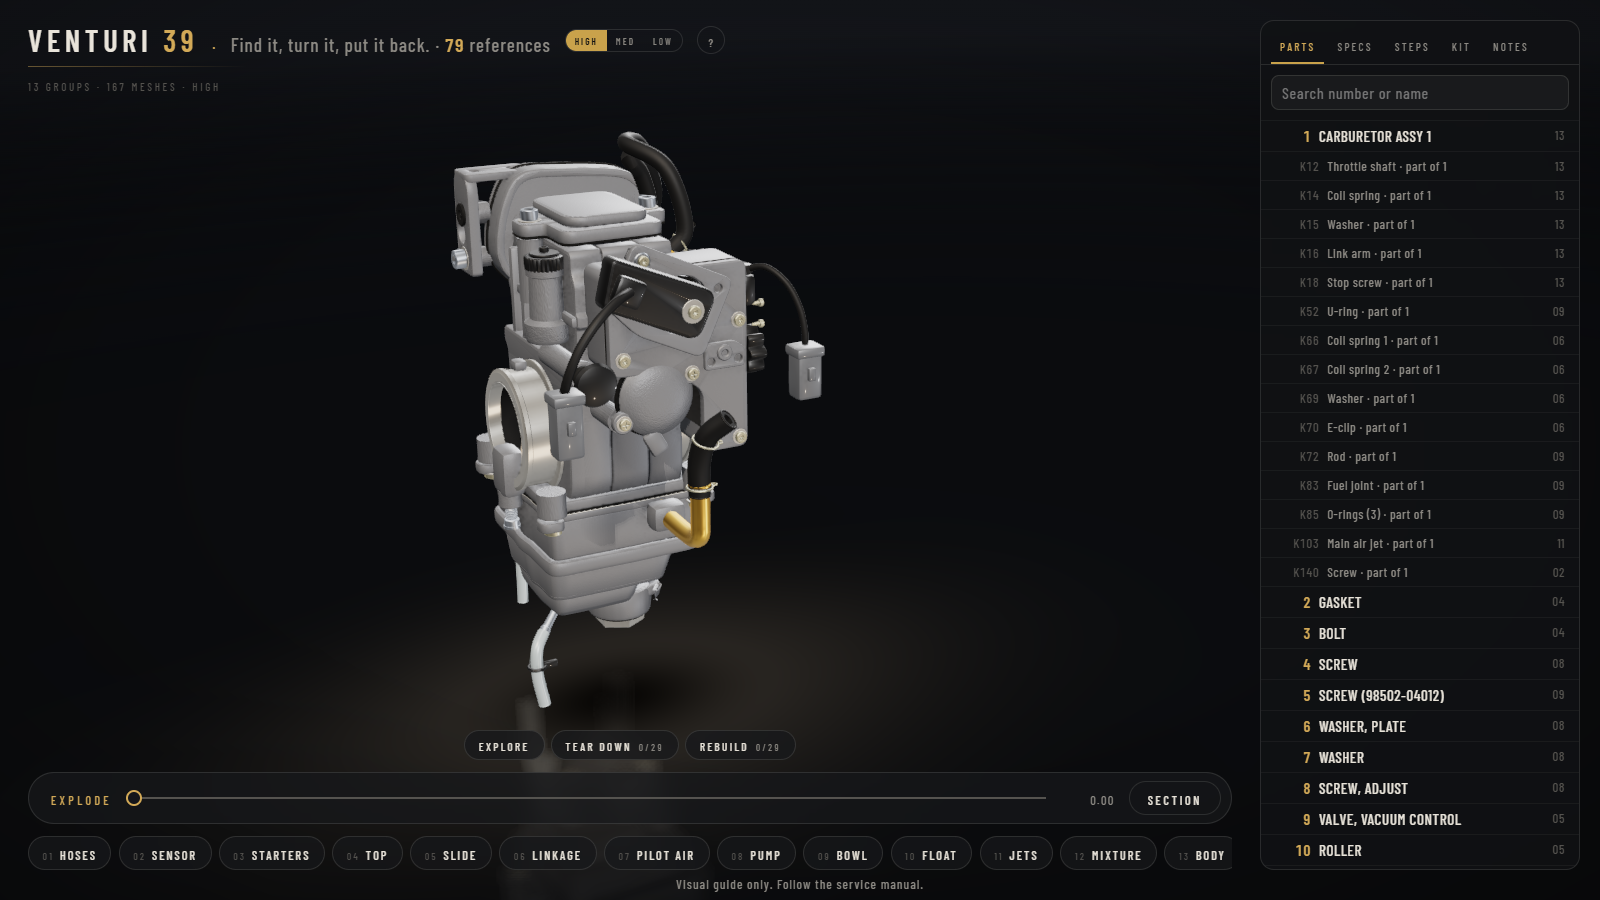
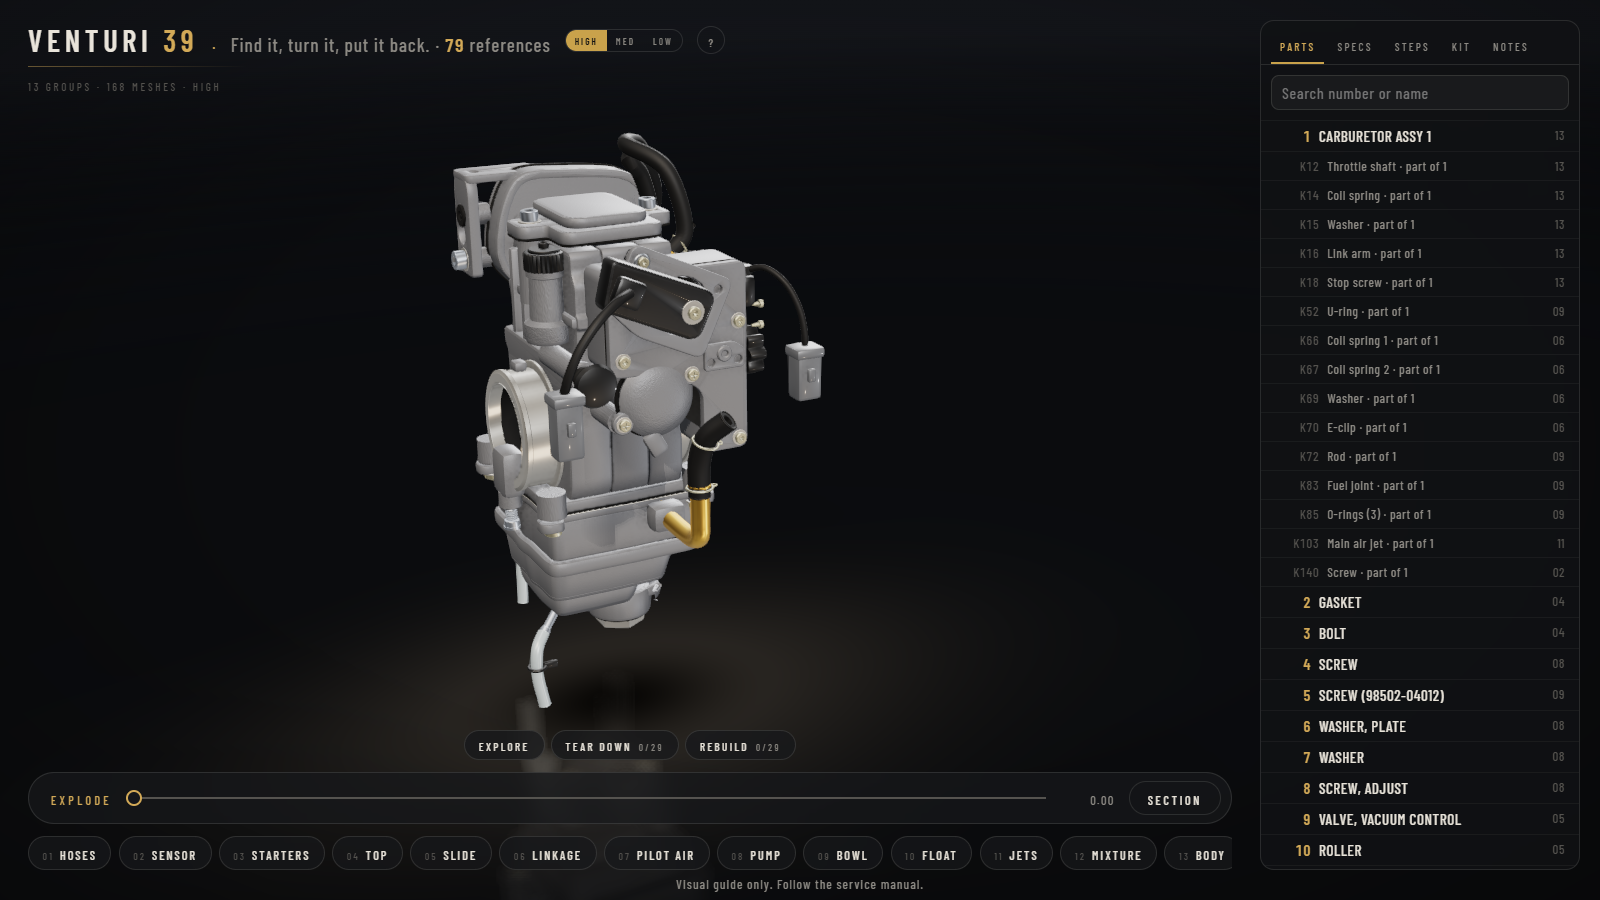
STATUS.md for run 16; hero retaken

diff --git a/STATUS.md b/STATUS.md
@@ -1,10 +1,10 @@
-1. Run 15 (2026-11-16) · v2.2. Items 1-12, one commit each (item 7's commit also carries K92's spring and the ring helper that item 6 uses; item 6 carries gasket 61's holes' sensor.js edit in item 7). Item 1 only appends corrections 31-33 to the git-ignored VENTURI_JOB.md.
-2. solo.txt: 109 of 111 parts pass all 3 questions (q1 111, q2 109, q3 111); 57 and 58 (vent hoses) stay N on q2: their open ends are too small to read at that scale. All 6 contact sheets looked at once, plus 4 extra sheets of changed parts (11 sheets in all, limit 12).
-3. account.txt (scripts/account.mjs): 111 parts, 0 failures. It first found 7: K12, K14, K15, K16, K18 (now in tear-down step 10) and K140 (step 6) had no step, and fuel hose 73 sat 28 mm from the bowl (now fits K83).
-4. Checklist "yes" per view (air-box, sensor, engine, cable, top, underside): 8, 10, 9, 9, 8, 10 = 54 of 72 (17 partial, 1 no). Line 2 now yes (dark share 0.82 against the photo's 0.91); line 31 now partial (the bowl screws moved up to 4 mm ears at the joint).
-5. Triangles 307,238 in 167 meshes (budget 335k): body and bowl big corners back to 16 steps by turn and radius. The bore shows 0 open gaps at explode 0 (slide seated fully down, cavity cut to the bore floor). 0 console errors.
-6. Items 2-7: bowl ears 4 mm thick, 4 M4 x 12 screws up into 4 tapped holes 8 mm deep (no posts); every thread real pitch, at most 10 rings, at most 0.4 mm deep; 6 heads show their drive; 7 jets bored through (pilot jet 18 mm with a slot and 4 cross holes); slide 9 grey, hollow back; 6 small parts and the 5 N grades rebuilt.
-7. Items 9-10: tray is 1 grid of 5 rows facing the camera, parts at 100% brightness; at 800 x 500 smallest part 12.7 px, tray at most 17.8% of the height, carburetor with the current part at least 50% of the usable height (its height, not its area). Fixed a bug: the tray tweens were never stepped, so a part reached the tray only on entering a mode. At 390 px the part name is in the step panel, 0 px covered; 0 px at 1902x935 and 1189x940 in all 58 steps.
-8. Looks this run: ref/carb_main..jpg once, 11 contact sheets, the 6 side-by-side images (cmp_1 before and after the slide change), 3 shots at 800 px (body from below, 7 jets, TEAR DOWN 23 with the tray).
-9. Live: https://simsi2027.github.io/venturi/ · tag v2.2. Next, 3 things to look at: the slide reads dark in the bore (grey outside, near-black liner inside, chosen to keep line 2); the tray tiles scale every part to a cell, so sizes in it are not to scale; vent hoses 57 and 58 ends.
-10. Not done: the 17 partial checklist lines (top lug and bosses, hot start cap, cable bracket), spring 50 and other closed coils (only 79 and K92 were asked).
+1. Run 16 (2026-11-17) · v2.3. Items 1-8, one commit each (item 1 only appends corrections 34-36 to the git-ignored VENTURI_JOB.md, so it has no commit; item 8's work is in 2 commits plus the final one). Looks this run beyond the allowance: 7 extra model screenshots in items 4-5 (solo brightness, tray layout, phone) before I read the limits properly; after that only the 6 contact sheets, the 6 side-by-side images and the 3 shots at 800 px, once each.
+2. Correction 34: K12, K14, K15, K16, K18 have no step and stay in the body ("Stays in the body: not in the manual's removal list", 0 tear-down steps, 0 rebuild steps, 0 tray slots). Every other part no manual step names keeps its step and its card says it is not named in the manual's list: scratch/unnamed.txt has 26 lines (49-52 and 22 Keihin pieces, each with the step it rides in).
+3. account.txt (scripts/account.mjs, updated for correction 34): 111 parts, 0 failures, 0 console errors. One scripted pass through both modes (scratch/modes.mjs): 72 checks, 0 failures. scratch/steps_export.txt: 111 lines (29 steps, SPECS, KIT).
+4. Solo brightness (item 4, correction 35): a clicked part no longer gets the +15% rim lift and is trimmed 18%: body, top cover and float chamber alone on HIGH average 47.6, 50.8 and 50.7% (were 56.5, 59.3, 58.1), 0% blown out; assembled they read 40-43%, so alone they are still 7-10 points brighter (no neighbours to shade them). Slide 9's outer faces measure 35.2%, unchanged.
+5. Tray (item 5): groups by step in step order (REBUILD: its order), 5 rows, 1 step number under each group, the current group outlined in brass, hover names a part, click selects it. At 800 x 500 the tray with its labels is at most 24.9% of the view height and the smallest part 12.5 px. Honest limit: with 101 parts at 12 px minimum and 25% of the height, nearly every part sits at the minimum; only the common scale factor (0.08) is true to scale, so the tray is not really to scale. The carburetor body reads 41-56% of the usable height (was 50% or more).
+6. Springs (item 6): the 9 compression springs are round-wire helices with 0 overlapping turns (spring 50 had closed turns: now 4.5 turns), 12 sides round the wire, 20-48 segments a turn by coil radius (sheet_2 showed 30, 79 and K92 lumpy at 20; fixed after the look, not looked at again). K14: coil and 2 legs of one wire radius; its fat post moved to the body.
+7. Checklist "yes" per view (air-box, sensor, engine, cable, top, underside): 9, 10, 9, 9, 8, 10 = 55 of 72 (16 partial, 1 no); the aim of 60 was not reached. Only line 3 (the 2 round bosses) moved to yes; 0 lines dropped a grade. Item 7 was 1 blind round (top cover ears, bosses, hot start cap, cable bracket flange), because no look at the images was allowed before the final ones. solo.txt: 109 of 111 (57 and 58 stay N on q2).
+8. Triangles 320,102 in 168 meshes (budget 335k). Live: https://simsi2027.github.io/venturi/ · tag v2.3.
+9. Next, 3 things to look at: the step card scrolls under its sticky buttons at 500 px tall (the callout shows faintly through the Back/Next bar in REBUILD 1); the tray labels are 8 px; the top and cable-bracket lines (52, 53, 54, 59) still partial.
+10. Not done: 60 of 72 "yes"; a second item 7 round; real scale in the tray.
